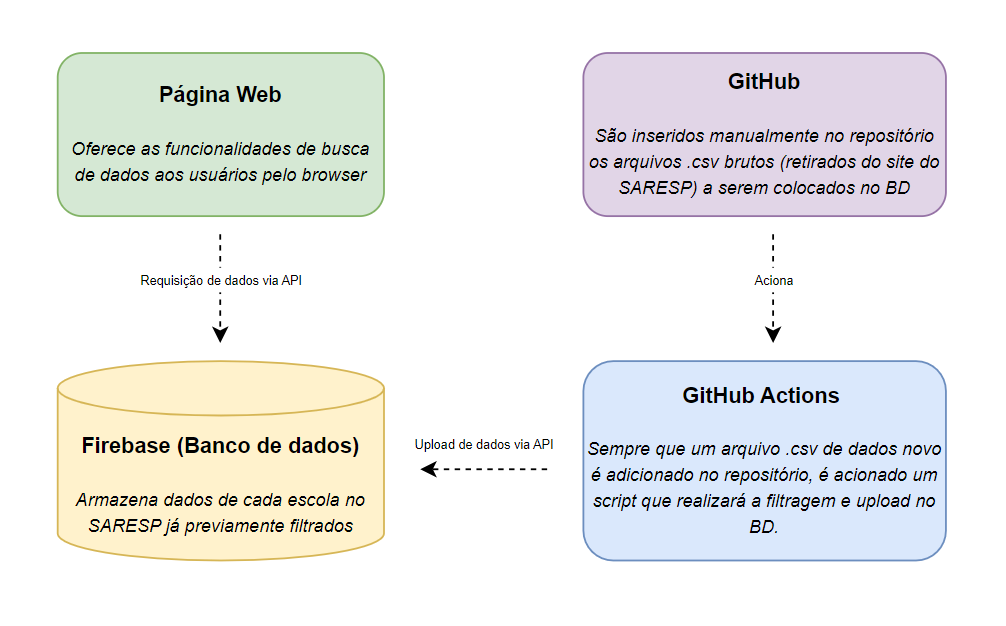
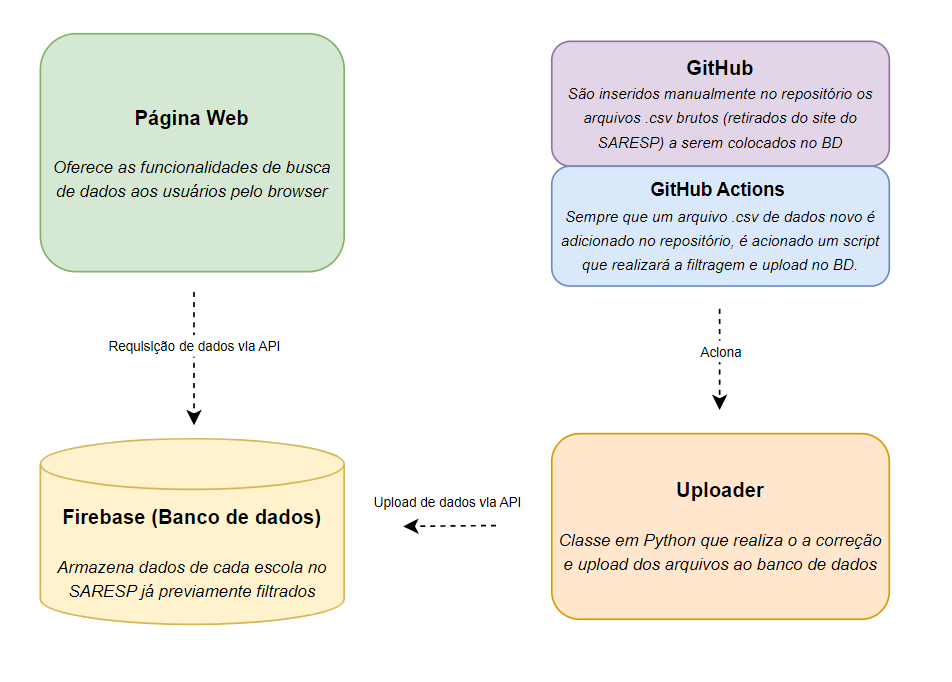
atualizacao diagrama arquitetura

diff --git a/README.md b/README.md
@@ -12,7 +12,7 @@ A ideia do projeto é democratizar e facilitar a visualização desses dados, se
 
 ## Descrição da Arquitetura (Avaliação 4.1)
 
-<img src="requirements_images\diagrama.png" height="450">
+<img src="requirements_images\diagrama.png" height="470">
 
 O estilo utilizado para a construção dessa arquitetura é baseada no Shared Repository. Como as funcionalidades do sistema são baseadas em manipulação e visualização de dados, a arquitetura consiste no conjunto de requisições da página Web ao Banco de Dados e atualização de informações ao mesmo Banco de dados pelo script acionado no GitHub Actions.
 
